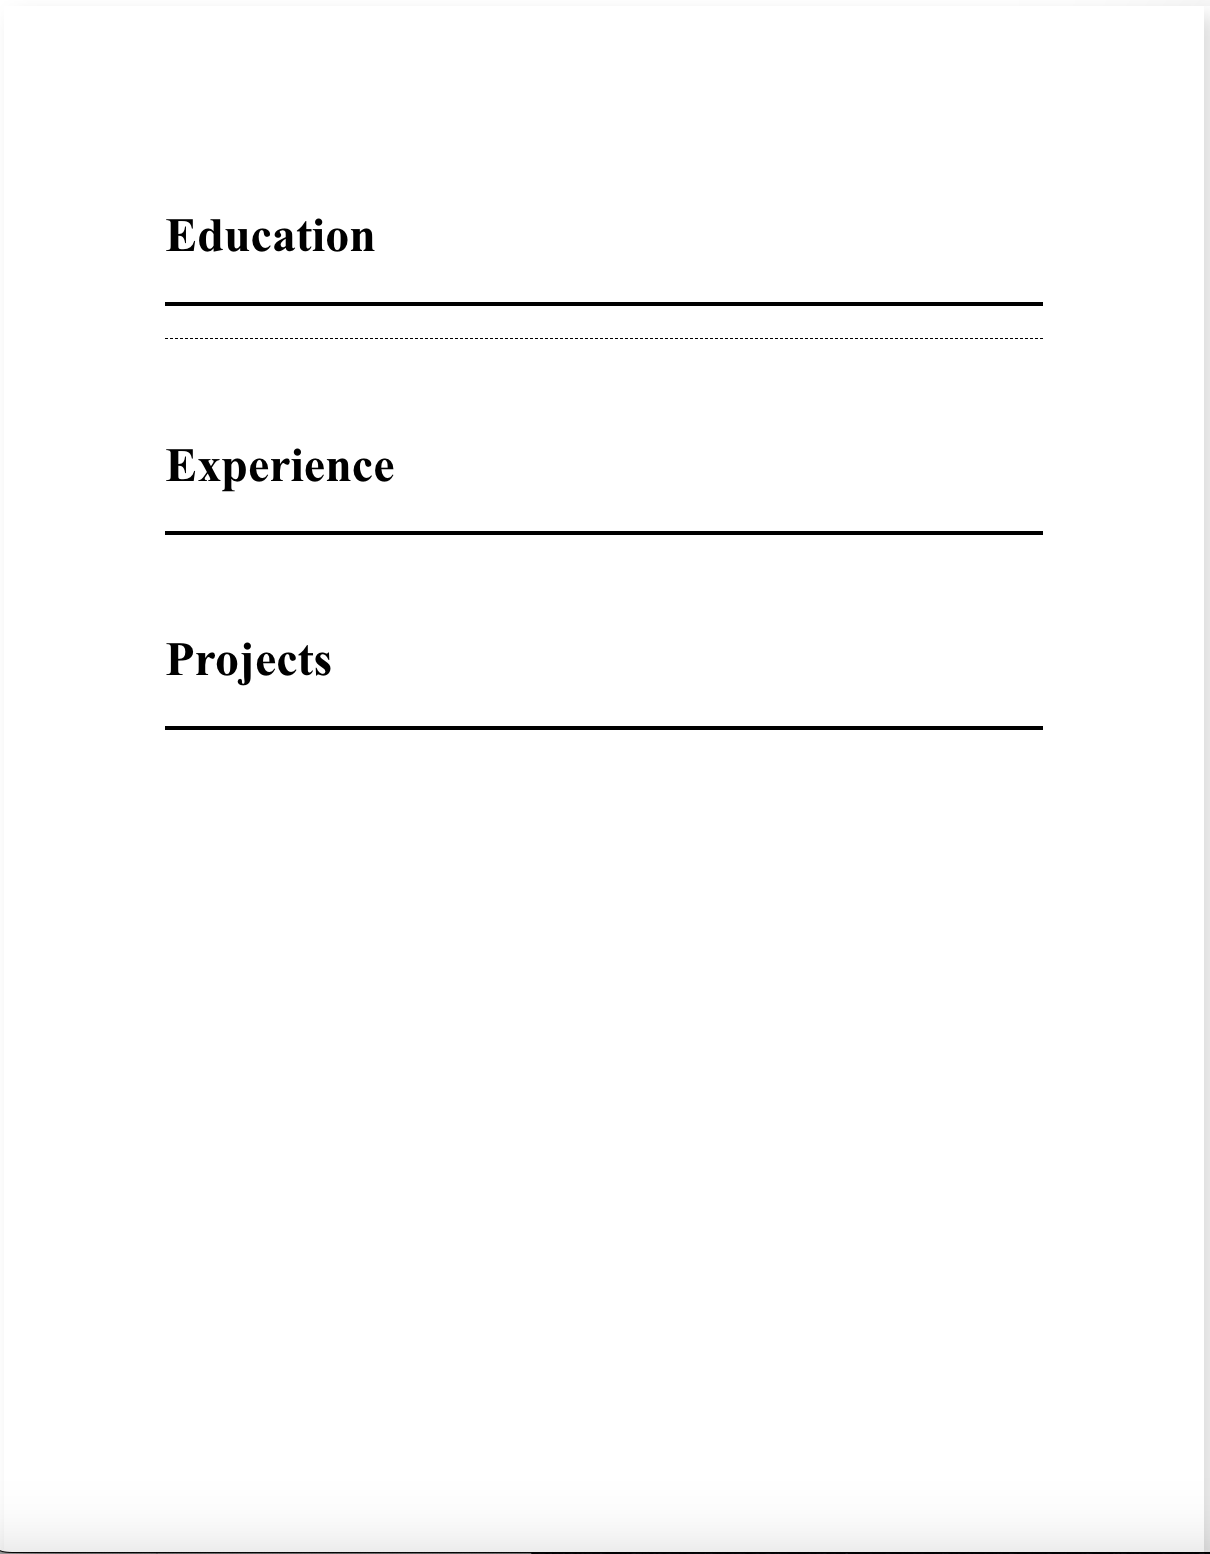
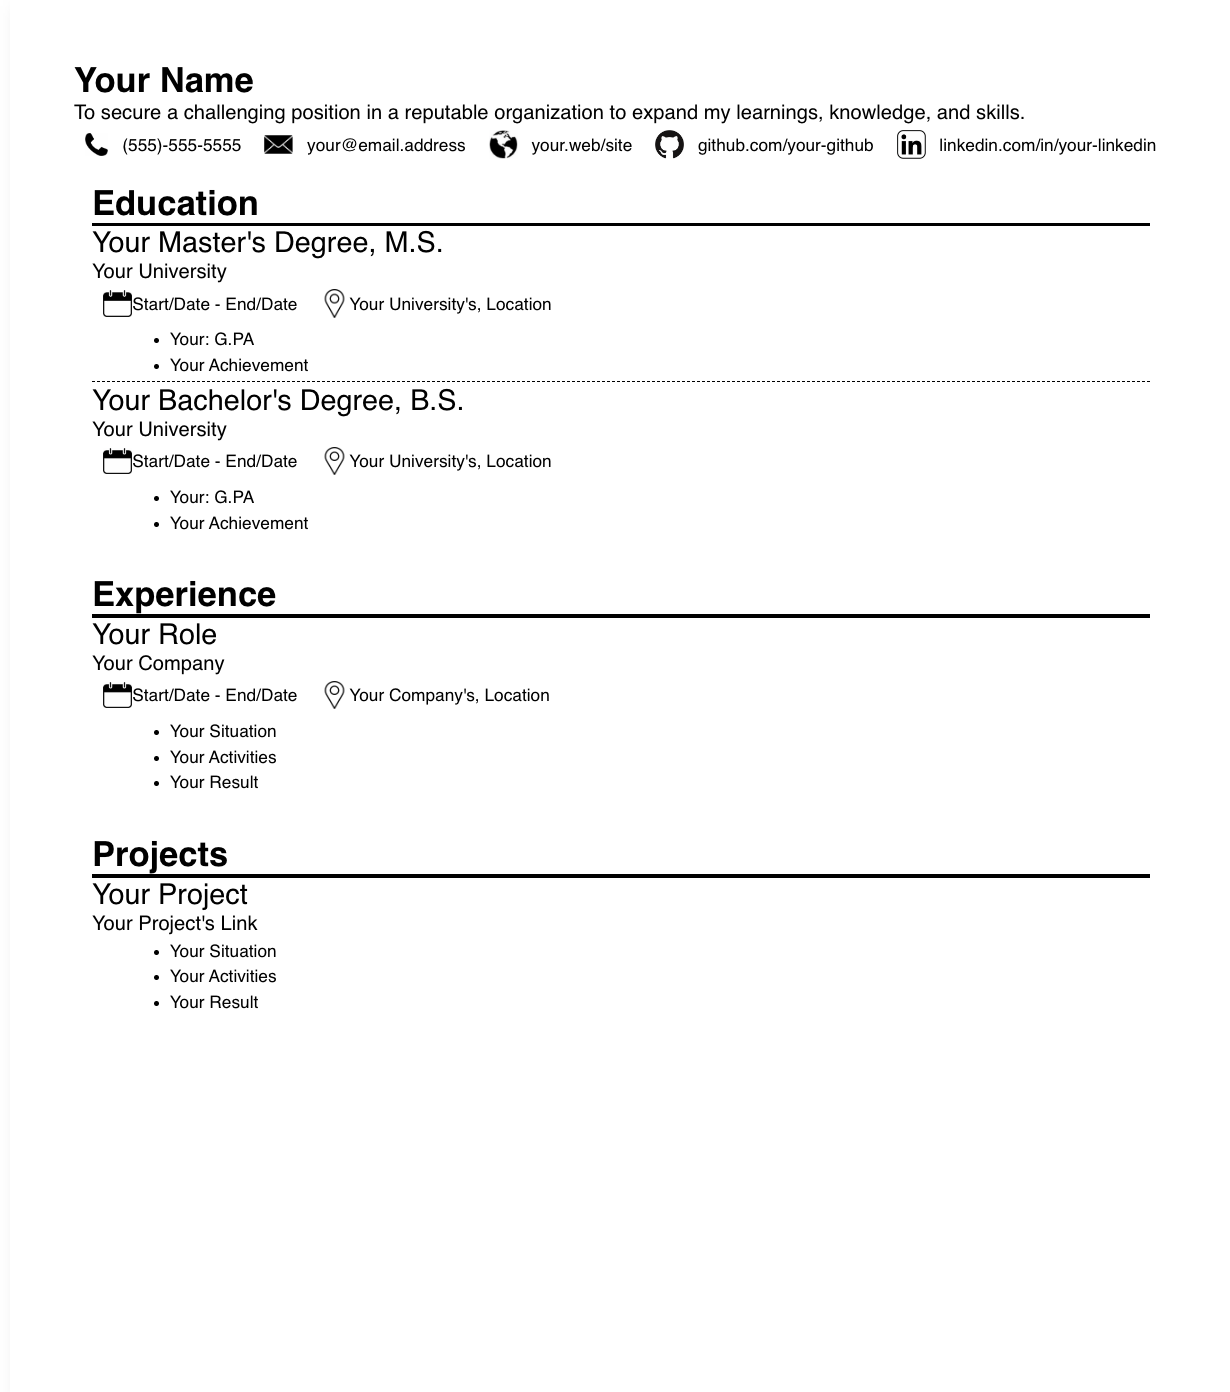
Completed intial data form text.

Changed region(s): [[0.0612, 0.0309, 0.9479, 0.7414], [0.0, 0.0309, 1.0, 1.0]]

diff --git a/Resume1/src/index.js b/Resume1/src/index.js
@@ -7,6 +7,7 @@ import "./scss/main.css"
 
 import Popup from "./components/Popup.js"
 import formatState0 from "./formatStates/formatState0.js"
+import formState0 from "./formatStates/formState0.js"
 import InputForm from "./Input/InputForm"
 import ResumeView from "./ResumeView/ResumeView.js"
 import Slider from "./components/Slider"
@@ -43,25 +44,8 @@ function App(){
     /* State object for all resume information */
     // Gets updated in InputForm and shown in ResumeView and InputForm
     const [formData, setFormData] = React.useState(
-        {
-            /* fields for personal information */
-            personalInformation: [
-                {
-                    index: 0,
-                    name: "",
-                    objective: "",
-                    phone: "",
-                    email: "",
-                    website: "",
-                    github: "",
-                    linkedin: ""
-                }
-            ],
-            /* fields for section information */
-            educationList: [],
-            experienceList: [],
-            projectList: []
-    })
+         formState0 
+    )
     // ****************************** Sections ******************************
     // List of fields for each section. E.g. 'education' contains ['certificate', 'institution', ...]
     const personalInfoFields = ["name", "objective", "phone", "email", "website", "github", "linkedin"]
@@ -82,17 +66,19 @@ function App(){
     // popup appear under cursor when a resume feature is hovered and 
     // configures popup attributes accordingly
     function itemPopup(event){
+        
         console.log(event.target.className)
-        const targetClass = event.target.className
-        const indices = targetClass === "title-1" ? [1, 2, 22] :
-                        targetClass === "title-2" ? [3, 4, 22] :
-                        targetClass === "heading-text" ? [5, 6, 22] :
-                        targetClass === "hr-section" ? [7, 8, 23] :
-                        targetClass === "hr-section-item" ? [9, 10, 23] :
-                        targetClass === "info-text" ? [11, 12, 22] :
-                        targetClass === "point" ? [13, 14, 15, 22] :
-                        targetClass === "section-info" ? [16, 17, 22] :
-                        targetClass === "margin" ? [0, 19, 20, 21] : []
+        const targetClass = event.target.className 
+        const indices = targetClass === "title-1" ? [1, 2, 20, 22] : //First descriptor of section instance - text
+                        targetClass === "title-2" ? [3, 4, 20, 22] : //Second descriptor of section instance - text
+                        targetClass === "heading-text" ? [5, 6, 20, 22] : //Name and section titles - text
+                        targetClass === "hr-section" ? [7, 8, 23] : 
+                        targetClass === "hr-section-item" ? [9, 10, 20, 23] : 
+                        targetClass === "info-text" ? [11, 12, 20, 22] : //personal information text - text
+                        targetClass === "point" ? [13, 14, 15, 20, 22] : //bullet point and its text - text
+                        targetClass === "section-info" ? [16, 17, 20, 22] : //dates and locations - text
+                        targetClass === "margin" ? [0, 19, 20, 21] : [] //resume margins
+                        
         setPopupState(prevPopup => {
             return ({...prevPopup, attributeIndices: indices, visible: true, xpos: `${event.clientX}px`, ypos: `${event.clientY}px`})
         })

diff --git a/Resume1/src/formatStates/formState0.js b/Resume1/src/formatStates/formState0.js
@@ -1,0 +1,91 @@
+export default {
+    /* fields for personal information */
+    personalInformation: [
+        {
+            index: 0,
+            name: "Your Name",
+            objective: "To secure a challenging position in a reputable organization to expand my learnings, knowledge, and skills. ",
+            phone: "(555)-555-5555",
+            email: "your@email.address",
+            website: "your.web/site",
+            github: "github.com/your-github",
+            linkedin: "linkedin.com/in/your-linkedin"
+        }
+    ],
+    /* fields for section information */
+    // Education 1
+    educationList: [{
+        index: 0,
+        certificate: "Your Master's Degree, M.S.",
+        institution: "Your University",
+        dates: "Start/Date - End/Date",
+        location: "Your University's, Location",
+        points: [{
+            pointIndex: 0,
+            pointContent: "Your: G.PA"
+        },
+        {
+            pointIndex: 1,
+            pointContent: "Your Achievement"
+        }]
+    },
+    // Education 2
+    {
+        index: 1,
+        certificate: "Your Bachelor's Degree, B.S.",
+        institution: "Your University",
+        dates: "Start/Date - End/Date",
+        location: "Your University's, Location",
+        points: [{
+            pointIndex: 0,
+            pointContent: "Your: G.PA"
+        },
+        {
+            pointIndex: 1,
+            pointContent: "Your Achievement"
+        }]
+    }
+    ],
+    experienceList: [
+        {
+            index: 0,
+            certificate: "Your Role",
+            institution: "Your Company",
+            dates: "Start/Date - End/Date",
+            location: "Your Company's, Location",
+            points: [{
+                pointIndex: 0,
+                pointContent: "Your Situation"
+            },
+            {
+                pointIndex: 1,
+                pointContent: "Your Activities"
+            },
+            {
+                pointIndex: 2,
+                pointContent: "Your Result"
+            }]
+        }
+    ],
+    projectList: [
+        {
+            index: 0,
+            certificate: "Your Project",
+            institution: "Your Project's Link",
+            dates: "",
+            location: "",
+            points: [{
+                pointIndex: 0,
+                pointContent: "Your Situation"
+            },
+            {
+                pointIndex: 1,
+                pointContent: "Your Activities"
+            },
+            {
+                pointIndex: 2,
+                pointContent: "Your Result"
+            }]
+        }
+    ]
+}

diff --git a/Resume1/src/components/Slider.js b/Resume1/src/components/Slider.js
@@ -2,31 +2,39 @@ import React from 'react'
 import template_slide1 from '../images/template_slides/template_slide1.png'
 import formatState1 from '../formatStates/formatState1'
 
+function Slide(props){
+    return (
+        <div className="slide" onClick={() => props.changeFormat(formatState1)}>
+            <img className="template-slide-image" src={template_slide1}></img>
+        </div>
+    )
+}
+
 export default function Slider(props) {
   return (
     <div className="slider-container">
         <div className="slider-track">
-            <div className="slide" onClick={() => props.changeFormat(formatState1)}>
-                <img className="template-slide-image" src={template_slide1}></img>
-            </div>
-            <div className="slide">
-                <img className="template-slide-image" src={template_slide1}></img>
-            </div>
-            <div className="slide">
-                <img className="template-slide-image" src={template_slide1}></img>
-            </div>
-            <div className="slide">
-                <img className="template-slide-image" src={template_slide1}></img>
-            </div>
-            <div className="slide">
-                <img className="template-slide-image" src={template_slide1}></img>
-            </div>
-            <div className="slide">
-                <img className="template-slide-image" src={template_slide1}></img>
-            </div>
-            <div className="slide">
-                <img className="template-slide-image" src={template_slide1}></img>
-            </div>
+            <Slide props={props}/>
+            <Slide props={props}/>
+            <Slide props={props}/>
+            <Slide props={props}/>
+            <Slide props={props}/>
+            <Slide props={props}/>
+            <Slide props={props}/>
+            <Slide props={props}/>
+            <Slide props={props}/>
+            <Slide props={props}/>
+            <Slide props={props}/>
+            <Slide props={props}/>
+            <Slide props={props}/>
+            <Slide props={props}/>
+            <Slide props={props}/>
+            <Slide props={props}/>
+            <Slide props={props}/>
+            <Slide props={props}/>
+            <Slide props={props}/>
+            <Slide props={props}/>
+            <Slide props={props}/>
         </div>
     </div>
   )

diff --git a/Resume1/src/formatStates/formatState0.js b/Resume1/src/formatStates/formatState0.js
@@ -1,10 +1,10 @@
 import React from "react"
 const colors = ["black", "white", "lightgrey", "deepskyblue", "gold", "grey", "blue", "red", "yellow"]
-const fontSizes = [".2em", ".4em", ".6em", ".8em", "1em", "1.2em", "1.4em", "1.6em", "1.8em", "2em", "2.2em", "2.4em", "2.6em", "2.8em", "3em"] 
+const fontSizes = [".2em", ".3em", ".4em", ".5em", ".6em", ".7em", ".8em", ".9em", "1em", "1.2em", "1.4em", "1.6em", "1.8em", "2em", "2.2em", "2.4em", "2.6em", "2.8em", "3em"] 
 const fonts = ["Times New Roman", "Roboto", "Khula", "Rubik", "Cormorant Garamond", "Arial", "Cambria", "Calibri", "Helvetica", "Courier New", "Geneva", "Georgia", "Palatino", "Lucida Grande", "Trebuchet MS"]
 export default [{
     formatId: 0,
-    formatValue: 1.0,
+    formatValue: 0.5,
     formatName: "margins",
     formatOptions: [0.1, 0.25, 0.5, 0.75, 1.0, 1.25, 1.5, 1.75, 2.0]            
 },
@@ -22,7 +22,7 @@ export default [{
 },
 {
     formatId: 3,
-    formatValue: ".9em",
+    formatValue: ".7em",
     formatName: "title 2 size",
     formatOptions: [...fontSizes]            
 },
@@ -34,7 +34,7 @@ export default [{
 },
 {
     formatId: 5,
-    formatValue: "1.5em",
+    formatValue: "1.2em",
     formatName: "heading size",
     formatOptions: [...fontSizes]           
 },

diff --git a/Resume1/src/scss/main.css b/Resume1/src/scss/main.css
@@ -58,7 +58,11 @@
   margin: var(--text-margin);
 }
 .view .view-info hr {
-  margin: var(--line-margin);
+  margin-top: var(--line-margin);
+  margin-bottom: var(--line-margin);
+}
+.view .view-info ul {
+  margin: 0.2em;
 }
 .view .view-info .heading-text {
   font-size: var(--heading-font-size);
@@ -313,6 +317,8 @@
 }
 
 .slider-track {
+  margin-top: 20px;
+  margin-bottom: 20px;
   width: 100%;
   display: flex;
   animation: scroll 20s linear infinite;
@@ -327,14 +333,13 @@
   }
 }
 .slide {
-  width: 200px;
   display: flex;
   align-items: center;
   perspective: 100px;
 }
 
 .template-slide-image {
-  width: 100%;
+  width: 200px;
   transition: transform 1s;
 }
 

diff --git a/Resume1/src/formatStates/formatState1.js b/Resume1/src/formatStates/formatState1.js
@@ -1,4 +1,3 @@
-import React from "react"
 const colors = ["black", "white", "lightgrey", "deepskyblue", "gold", "grey", "blue", "red", "yellow"]
 const fontSizes = [".2em", ".4em", ".6em", ".8em", "1em", "1.2em", "1.4em", "1.6em"] 
 const fonts = ["Times New Roman", "Roboto", "Khula", "Rubik", "Cormorant Garamond", "Arial", "Cambria", "Calibri", "Helvetica", "Courier New", "Geneva", "Georgia", "Palatino", "Lucida Grande", "Trebuchet MS"]
@@ -22,7 +21,7 @@ export default [{
 },
 {
     formatId: 3,
-    formatValue: ".9em",
+    formatValue: ".6em",
     formatName: "title 2 size",
     formatOptions: [...fontSizes]            
 },

diff --git a/Resume1/src/scss/_slider.scss b/Resume1/src/scss/_slider.scss
@@ -1,4 +1,6 @@
 .slider-track {
+    margin-top: 20px;
+    margin-bottom: 20px;
     width: 100%;
     display: flex;
     animation: scroll 20s linear infinite;
@@ -14,13 +16,12 @@
 }
 
 .slide {
-    width: 200px;
     display: flex;
     align-items: center;
     perspective: 100px;
 }
 .template-slide-image {
-    width: 100%;
+    width: 200px;
     transition: transform 1s;
 }
 .template-slide-image:hover {

diff --git a/Resume1/src/scss/_view.scss b/Resume1/src/scss/_view.scss
@@ -26,7 +26,11 @@
             margin: var(--text-margin);
         }
         hr {
-            margin: var(--line-margin);
+            margin-top: var(--line-margin);
+            margin-bottom: var(--line-margin);
+        }
+        ul {
+            margin: 0.2em;
         }
         /* Headings (name, section titles) */
         .heading-text{

diff --git a/Resume1/src/scss/_control.scss b/Resume1/src/scss/_control.scss
@@ -129,6 +129,7 @@
                                 margin-left: .4em;
                                 transition-property: top, font-size;
                                 transition-duration: .2s;
+
                             }
                         }
                         }

diff --git a/Resume1/README.md b/Resume1/README.md
@@ -53,3 +53,9 @@ It was challenging to trigger a mouseOver event while the user hovers over the r
 The next goal is to create a .js file that maintains the formData's state, in case the browser refreshed. Also, templates need to be made for the user to select from, whereby more guidance is provided while still allowing freedom to edit any element.
 4/20
 Using libraries such as Quill leaves the developer reliant on its capabilities. By building this app from scratch, I was able to have much more control over its capabilities, with the tradeoff of managing the complexity of my own features.
+
+Todo:
+
+Possibly use iconify or fontawesome to enable variable color icons.
+Add 'skills' section.
+Add bold attribute selection.
